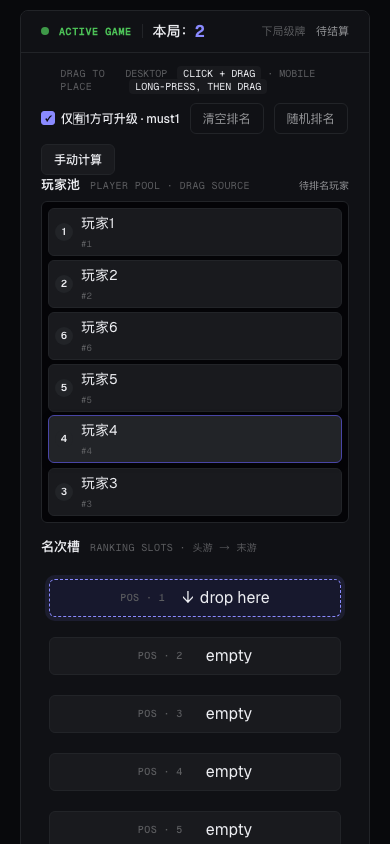
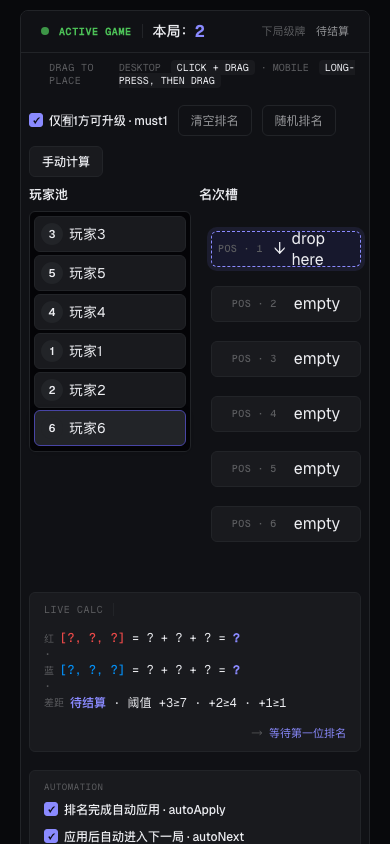
fix(theme): pool LEFT, slots RIGHT side-by-side mobile layout — user's "drag-from-left-to-right" UX
User report (with images): rank tiles + slot drop zones still didn't
fit one mobile screen even after the prior compaction; "I need square
tile and square drop zone in one screen left and right for easy
dragging." Then after my first attempt: "boxes too big, need to see
and drag drop ALL tiles."

Root cause: pool and slots were stacked vertically (1-col each) — for
8 players that meant 8 pool tiles + 8 slot tiles = 16 rows of vertical
content, way past one viewport. Aspect-ratio:1 made it WORSE
(180×180px tiles when each half is 180px wide).

Fix per theme — `.activegame__body` becomes a 2-col grid on mobile
with `grid-template-areas`:

      "ann ann"           ← annotation strip (full width)
      "ctl ctl"           ← inline controls (full width)
      "pool slots"        ← THE drag layout (left | right)
      "calc calc"         ← live calc preview (full width)
      "actions actions"   ← apply / advance buttons (full width)

Each half (`.pool` and `.slots`) renders its tiles as a single-column
grid of compact 36px-tall horizontal rows:
  • Pool tile: 22px team-color avatar | display name (handle hidden)
  • Slot:      POS · N label | filled name OR "empty" / "drop here"

For 8-player mode: 8 pool tiles × 36px = 288px. Same for slots.
Side-by-side at 288px tall, both fully visible alongside the calc
preview below. No scroll needed for drag.

Slot child elements still rendered: `.slot__rank-cn` (huge serif
头游/末游), `.slot__check`, `.slot__avatar` are all `display: none`
[…]

diff --git a/src/themes/broadcast/theme.css b/src/themes/broadcast/theme.css
@@ -217,7 +217,7 @@
 :root[data-theme="broadcast"] .theme-picker {
   position: relative;
 }
-:root[data-theme="broadcast"] .theme-picker__dropdown { position: relative; }
+:root[data-theme="broadcast"] .theme-picker__dropdown { position: relative; display: inline-block; }
 :root[data-theme="broadcast"] .theme-picker__trigger {
   list-style: none;
   cursor: pointer;
@@ -2744,12 +2744,16 @@
     padding: 0 var(--s4);
   }
   /* Navbar — nowrap + hide wordmark + compact tabs so 390px viewport fits
-   * brand-mark + 3 tabs + picker icon + user avatar without overflowing. */
+   * brand-mark + 3 tabs + picker icon + user avatar without overflowing.
+   * Critically: NO `overflow: hidden` here — the picker dropdown panel
+   * is positioned absolutely below the trigger; clipping the inner row
+   * also clips the panel. Use `min-width: 0` on flex items instead to
+   * keep the row from blowing out. */
   :root[data-theme="broadcast"] .topnav__inner {
     height: 48px;
     flex-wrap: nowrap;
     gap: var(--s2);
-    overflow: hidden;
+    overflow: visible;
   }
   :root[data-theme="broadcast"] .topnav__brand {
     padding-right: var(--s2);
@@ -2883,21 +2887,57 @@
     padding: var(--s2) 0;
   }
 
-  /* Mobile pool + slots — compact single-column rows so 8 of each fit one
-   * mobile screen alongside the headers. The huge serif slot__rank-cn
-   * (头游/二游/...) is hidden on mobile; the slot__index "POS · 1" is
-   * enough to convey position. Drag works the same. */
+  /* Mobile gameplay layout — pool LEFT, slots RIGHT, both visible at once.
+   * Active-game body uses grid-template-areas so annotation/controls/calc/
+   * actions span full width while pool + slots split the row. Tiles are
+   * SQUARES (aspect-ratio: 1) in a 2-col grid within each half, so the
+   * drag source and drop target both feel like dragable cards. */
+  :root[data-theme="broadcast"] .activegame__body {
+    display: grid;
+    grid-template-columns: 1fr 1fr;
+    grid-template-areas:
+      "ann ann"
+      "ctl ctl"
+      "pool slots"
+      "calc calc"
+      "actions actions";
+    gap: 8px;
+    padding: 8px;
+  }
+  :root[data-theme="broadcast"] .activegame__body > .annotation { grid-area: ann; }
+  :root[data-theme="broadcast"] .activegame__body > .activegame__inline-controls { grid-area: ctl; }
+  :root[data-theme="broadcast"] .activegame__body > .pool { grid-area: pool; min-width: 0; }
+  :root[data-theme="broadcast"] .activegame__body > .slots { grid-area: slots; min-width: 0; }
+  :root[data-theme="broadcast"] .activegame__body > .calcpreview { grid-area: calc; }
+  :root[data-theme="broadcast"] .activegame__body > .controls { grid-area: actions; }
+
+  :root[data-theme="broadcast"] .pool__head,
+  :root[data-theme="broadcast"] .slots__head { font-size: 10px; gap: 4px; margin-bottom: 4px; }
+  :root[data-theme="broadcast"] .pool__sub,
+  :root[data-theme="broadcast"] .slots__sub,
+  :root[data-theme="broadcast"] .pool__count { display: none; }
+
+  /* Pool LEFT, slots RIGHT — each is 1-col (full half width) with compact
+   * horizontal rows. 8 player tiles × ~32px = ~260px tall — fits easily
+   * alongside the slots column at the same height. NO aspect-ratio:1 or
+   * the tiles balloon to 180px each. */
   :root[data-theme="broadcast"] .pool__grid,
-  :root[data-theme="broadcast"] .player-pool {
+  :root[data-theme="broadcast"] .player-pool,
+  :root[data-theme="broadcast"] .slots__grid,
+  :root[data-theme="broadcast"] .ranking-area {
     grid-template-columns: 1fr;
-    gap: 4px;
-    padding: 6px;
+    gap: 3px;
+    padding: 4px;
   }
   :root[data-theme="broadcast"] .pool-tile {
-    padding: 5px 8px !important;
+    height: 36px !important;
+    aspect-ratio: auto !important;
     min-height: 0 !important;
+    padding: 4px 6px !important;
+    display: grid !important;
     grid-template-columns: 22px 1fr auto !important;
-    gap: var(--s2) !important;
+    align-items: center !important;
+    gap: 6px !important;
     flex-direction: row !important;
   }
   :root[data-theme="broadcast"] .pool-tile__avatar {
@@ -2905,29 +2945,35 @@
     height: 22px !important;
     font-size: 11px !important;
   }
-  :root[data-theme="broadcast"] .pool-tile__display {
-    font-size: 13px !important;
+  :root[data-theme="broadcast"] .pool-tile__display { font-size: 12px !important; }
+  :root[data-theme="broadcast"] .pool-tile__handle { display: none !important; }
+  :root[data-theme="broadcast"] .pool-tile__name {
+    display: flex !important;
+    flex-direction: row !important;
+    align-items: baseline !important;
+    text-align: left !important;
+    overflow: hidden;
+    white-space: nowrap;
+    text-overflow: ellipsis;
   }
-  :root[data-theme="broadcast"] .pool-tile__handle {
-    font-size: 10px !important;
-  }
-  :root[data-theme="broadcast"] .slots__grid,
-  :root[data-theme="broadcast"] .ranking-area {
-    grid-template-columns: 1fr;
-    gap: 4px;
-  }
+
   :root[data-theme="broadcast"] .rank-slot.slot,
   :root[data-theme="broadcast"] .rank-slot,
   :root[data-theme="broadcast"] .slot {
-    min-height: 40px !important;
-    padding: 6px 8px !important;
+    height: 36px !important;
+    aspect-ratio: auto !important;
+    min-height: 0 !important;
+    padding: 4px 6px !important;
+    display: flex !important;
     flex-direction: row !important;
     align-items: center !important;
-    gap: var(--s2) !important;
+    justify-content: flex-start !important;
+    gap: 6px !important;
   }
+  /* Hide the giant serif rank-cn + redundant labels on mobile */
   :root[data-theme="broadcast"] .slot__rank-cn,
   :root[data-theme="broadcast"] .slot__check,
-  :root[data-theme="broadcast"] .slot__avatar,
+  :root[data-theme="broadcast"] .slot__handle,
   :root[data-theme="broadcast"] .slot__target-icon,
   :root[data-theme="broadcast"] .slot__target-label,
   :root[data-theme="broadcast"] .slot__placeholder,
@@ -2936,14 +2982,20 @@
   }
   :root[data-theme="broadcast"] .slot__index {
     font-size: 10px !important;
-    min-width: 60px !important;
+    min-width: 50px !important;
     flex-shrink: 0;
   }
-  :root[data-theme="broadcast"] .slot__name {
-    font-size: 13px !important;
-  }
-  :root[data-theme="broadcast"] .slot__handle {
+  :root[data-theme="broadcast"] .slot__avatar {
+    width: 20px !important;
+    height: 20px !important;
     font-size: 10px !important;
+  }
+  :root[data-theme="broadcast"] .slot__name {
+    font-size: 12px !important;
+    text-align: left !important;
+    overflow: hidden;
+    white-space: nowrap;
+    text-overflow: ellipsis;
   }
 
   /* Stack controls */

diff --git a/src/themes/linear/theme.css b/src/themes/linear/theme.css
@@ -1608,7 +1608,7 @@
   position: relative;
   font-family: var(--font-body);
 }
-:root[data-theme="linear"] .theme-picker__dropdown { position: relative; }
+:root[data-theme="linear"] .theme-picker__dropdown { position: relative; display: inline-block; }
 :root[data-theme="linear"] .theme-picker__trigger {
   list-style: none;
   cursor: pointer;
@@ -1733,10 +1733,12 @@
   /* Navbar — nowrap + hide wordmark + compact tabs so 390px viewport fits
    * brand-mark + 3 tabs + picker icon + user avatar without overflowing. */
   :root[data-theme="linear"] .topnav { padding: 6px var(--s3); }
+  /* No overflow:hidden — would clip the picker dropdown panel positioned
+   * absolutely below the trigger. */
   :root[data-theme="linear"] .topnav__inner {
     flex-wrap: nowrap;
     gap: var(--s2);
-    overflow: hidden;
+    overflow: visible;
   }
   :root[data-theme="linear"] .topnav__brand { flex-shrink: 0; gap: 0; font-size: 0; }
   :root[data-theme="linear"] .topnav__brand::before { width: 22px; height: 22px; flex-shrink: 0; }
@@ -1801,32 +1803,67 @@
   :root[data-theme="linear"] .pool-tile__avatar { width: 18px; height: 18px; font-size: 10px; }
   :root[data-theme="linear"] .pool-tile__display { font-size: 11px; }
   :root[data-theme="linear"] .pool-tile__handle { font-size: 9px; }
-  /* Slots collapse to single-column rows on mobile so all 6/8 fit alongside
-   * the pool above. Each slot is one horizontal row: position label + name. */
+  /* Mobile gameplay layout — pool LEFT, slots RIGHT, both visible at once.
+   * Active-game body uses grid-template-areas so annotation/controls/calc/
+   * actions span full width while pool + slots split the row. Each tile is
+   * a compact horizontal row (~36px tall) so 8 of each fit one screen. */
+  :root[data-theme="linear"] .activegame__body {
+    display: grid;
+    grid-template-columns: 1fr 1fr;
+    grid-template-areas:
+      "ann ann"
+      "ctl ctl"
+      "pool slots"
+      "calc calc"
+      "actions actions";
+    gap: 8px;
+    padding: 8px;
+  }
+  :root[data-theme="linear"] .activegame__body > .annotation { grid-area: ann; }
+  :root[data-theme="linear"] .activegame__body > .activegame__inline-controls { grid-area: ctl; }
+  :root[data-theme="linear"] .activegame__body > .pool { grid-area: pool; min-width: 0; }
+  :root[data-theme="linear"] .activegame__body > .slots { grid-area: slots; min-width: 0; }
+  :root[data-theme="linear"] .activegame__body > .calcpreview { grid-area: calc; }
+  :root[data-theme="linear"] .activegame__body > .controls { grid-area: actions; }
+
+  :root[data-theme="linear"] .pool__sub,
+  :root[data-theme="linear"] .slots__sub,
+  :root[data-theme="linear"] .pool__count { display: none; }
+
+  :root[data-theme="linear"] .pool__grid,
   :root[data-theme="linear"] .slots__grid {
     grid-template-columns: 1fr;
-    gap: 4px;
+    gap: 3px;
+    padding: 4px;
   }
+  :root[data-theme="linear"] .pool-tile,
+  :root[data-theme="linear"] .ranking-player-tile.pool-tile {
+    height: 36px !important;
+    min-height: 0 !important;
+    padding: 4px 6px !important;
+    grid-template-columns: 22px 1fr !important;
+    gap: 6px !important;
+  }
+  :root[data-theme="linear"] .pool-tile__avatar { width: 22px; height: 22px; font-size: 11px; }
+  :root[data-theme="linear"] .pool-tile__display { font-size: 12px; white-space: nowrap; overflow: hidden; text-overflow: ellipsis; }
+  :root[data-theme="linear"] .pool-tile__handle { display: none; }
+
   :root[data-theme="linear"] .rank-slot,
   :root[data-theme="linear"] .slot {
-    padding: 6px 8px;
-    min-height: 38px;
-    gap: var(--s2);
-    flex-direction: row;
-    align-items: center;
+    padding: 4px 6px !important;
+    height: 36px !important;
+    min-height: 0 !important;
+    gap: 6px !important;
+    flex-direction: row !important;
+    align-items: center !important;
   }
   :root[data-theme="linear"] .slot__rank-cn,
   :root[data-theme="linear"] .slot__check,
-  :root[data-theme="linear"] .slot__avatar { display: none; }
+  :root[data-theme="linear"] .slot__avatar { display: none !important; }
   :root[data-theme="linear"] .slot__index,
-  :root[data-theme="linear"] .slot__pos { font-size: 10px; min-width: 56px; flex-shrink: 0; }
-  :root[data-theme="linear"] .slot__name { font-size: 12px; }
-  :root[data-theme="linear"] .slot__handle { font-size: 10px; }
+  :root[data-theme="linear"] .slot__pos { font-size: 10px; min-width: 50px; flex-shrink: 0; }
+  :root[data-theme="linear"] .slot__name { font-size: 12px; white-space: nowrap; overflow: hidden; text-overflow: ellipsis; }
   :root[data-theme="linear"] .slot__rank { font-size: 14px; }
-  /* Pool tiles also collapse to single-column rows */
-  :root[data-theme="linear"] .pool__grid {
-    grid-template-columns: 1fr;
-  }
 
   /* Theme picker on mobile — icon-only trigger; panel still drops down. */
   :root[data-theme="linear"] .theme-picker__trigger-label,

diff --git a/src/themes/trading/theme.css b/src/themes/trading/theme.css
@@ -1913,7 +1913,7 @@
   font-family: var(--font-mono);
   position: relative;
 }
-:root[data-theme="trading"] .theme-picker__dropdown { position: relative; }
+:root[data-theme="trading"] .theme-picker__dropdown { position: relative; display: inline-block; }
 :root[data-theme="trading"] .theme-picker__trigger {
   list-style: none;
   cursor: pointer;
@@ -2045,10 +2045,12 @@
   }
   /* Navbar — nowrap + drop wordmark + compact tabs so 390px fits everything */
   :root[data-theme="trading"] .topnav { padding: 5px var(--s3); }
+  /* No overflow:hidden — would clip the picker dropdown panel positioned
+   * absolutely below the trigger. */
   :root[data-theme="trading"] .topnav__inner {
     flex-wrap: nowrap;
     gap: var(--s2);
-    overflow: hidden;
+    overflow: visible;
   }
   :root[data-theme="trading"] .topnav__brand { padding: 2px 4px; margin-right: 4px; flex-shrink: 0; font-size: 0; }
   :root[data-theme="trading"] .topnav__brand::before { font-size: 11px; }
@@ -2107,42 +2109,64 @@
   :root[data-theme="trading"] .ticker__item--owner,
   :root[data-theme="trading"] .ticker__item--elapsed { display: none; }
 
-  /* Pool + slots — single-column rows so 8 of each fit one mobile screen.
-   * Each slot is one horizontal row: position index + filled name. */
-  :root[data-theme="trading"] .pool__grid {
+  /* Mobile gameplay layout — pool LEFT, slots RIGHT, both visible at once.
+   * Tiles are compact 36px-tall rows so 8 of each fit one viewport. */
+  :root[data-theme="trading"] .activegame__body {
+    display: grid;
+    grid-template-columns: 1fr 1fr;
+    grid-template-areas:
+      "ann ann"
+      "ctl ctl"
+      "pool slots"
+      "calc calc"
+      "actions actions";
+    gap: 8px;
+    padding: 8px;
+  }
+  :root[data-theme="trading"] .activegame__body > .annotation { grid-area: ann; }
+  :root[data-theme="trading"] .activegame__body > .activegame__inline-controls { grid-area: ctl; }
+  :root[data-theme="trading"] .activegame__body > .pool { grid-area: pool; min-width: 0; }
+  :root[data-theme="trading"] .activegame__body > .slots { grid-area: slots; min-width: 0; }
+  :root[data-theme="trading"] .activegame__body > .calcpreview { grid-area: calc; }
+  :root[data-theme="trading"] .activegame__body > .controls { grid-area: actions; }
+
+  :root[data-theme="trading"] .pool__sub,
+  :root[data-theme="trading"] .slots__sub,
+  :root[data-theme="trading"] .pool__count { display: none; }
+
+  :root[data-theme="trading"] .pool__grid,
+  :root[data-theme="trading"] .slots__grid {
     grid-template-columns: 1fr;
-    padding: 6px;
-    gap: 4px;
+    padding: 4px;
+    gap: 3px;
   }
   :root[data-theme="trading"] .pool-tile,
   :root[data-theme="trading"] .ranking-player-tile.pool-tile {
-    grid-template-columns: 22px 1fr auto;
-    padding: 5px 8px;
-    min-height: 0;
-    gap: var(--s2);
+    height: 36px !important;
+    grid-template-columns: 22px 1fr !important;
+    padding: 4px 6px !important;
+    min-height: 0 !important;
+    gap: 6px !important;
   }
   :root[data-theme="trading"] .pool-tile__avatar { width: 22px; height: 22px; font-size: 11px; }
-  :root[data-theme="trading"] .pool-tile__display { font-size: 12px; }
-  :root[data-theme="trading"] .pool-tile__handle { font-size: 10px; }
-  :root[data-theme="trading"] .slots__grid {
-    grid-template-columns: 1fr;
-    gap: 4px;
-  }
+  :root[data-theme="trading"] .pool-tile__display { font-size: 12px; white-space: nowrap; overflow: hidden; text-overflow: ellipsis; }
+  :root[data-theme="trading"] .pool-tile__handle { display: none; }
+
   :root[data-theme="trading"] .rank-slot,
   :root[data-theme="trading"] .slot {
-    padding: 6px 8px;
-    min-height: 38px;
-    gap: var(--s2);
-    flex-direction: row;
-    align-items: center;
+    padding: 4px 6px !important;
+    height: 36px !important;
+    min-height: 0 !important;
+    gap: 6px !important;
+    flex-direction: row !important;
+    align-items: center !important;
   }
   :root[data-theme="trading"] .slot__rank-cn,
   :root[data-theme="trading"] .slot__check,
-  :root[data-theme="trading"] .slot__avatar { display: none; }
+  :root[data-theme="trading"] .slot__avatar { display: none !important; }
   :root[data-theme="trading"] .slot__index,
-  :root[data-theme="trading"] .slot__pos { font-size: 10px; min-width: 56px; flex-shrink: 0; }
-  :root[data-theme="trading"] .slot__name { font-size: 12px; }
-  :root[data-theme="trading"] .slot__handle { font-size: 10px; }
+  :root[data-theme="trading"] .slot__pos { font-size: 10px; min-width: 50px; flex-shrink: 0; }
+  :root[data-theme="trading"] .slot__name { font-size: 12px; white-space: nowrap; overflow: hidden; text-overflow: ellipsis; }
   :root[data-theme="trading"] .slot__rank { font-size: 14px; }
 
   /* Theme picker on mobile — show only the icon-trigger, hide the label.
